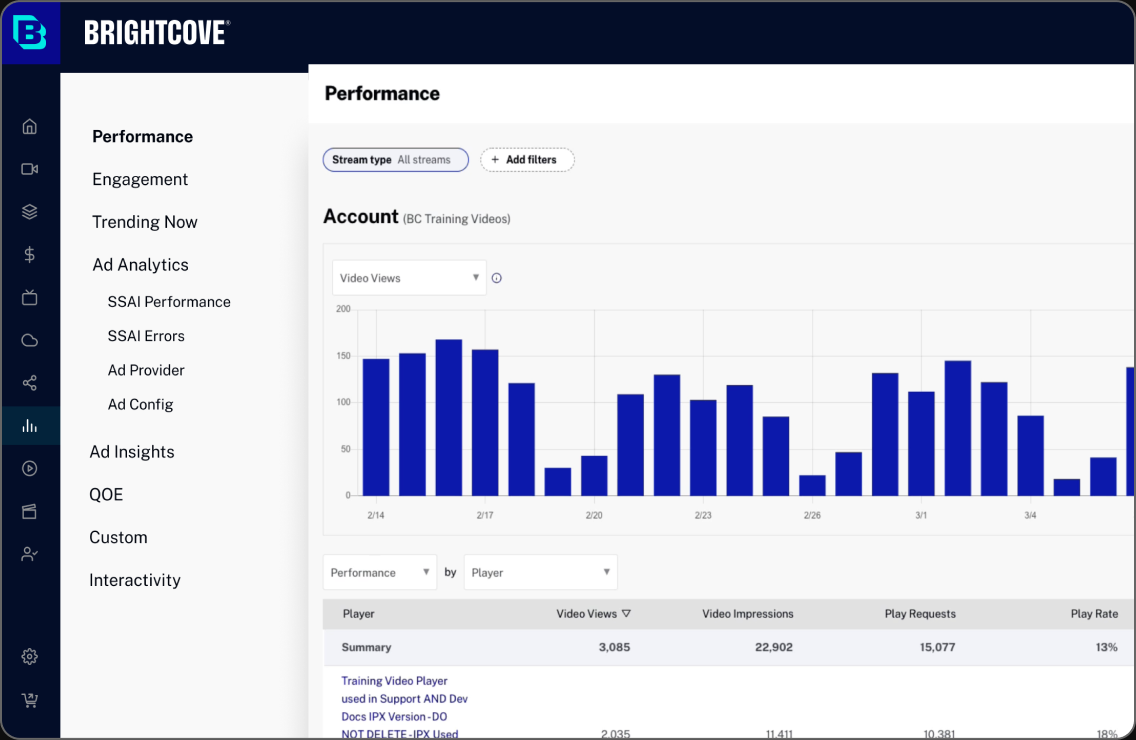
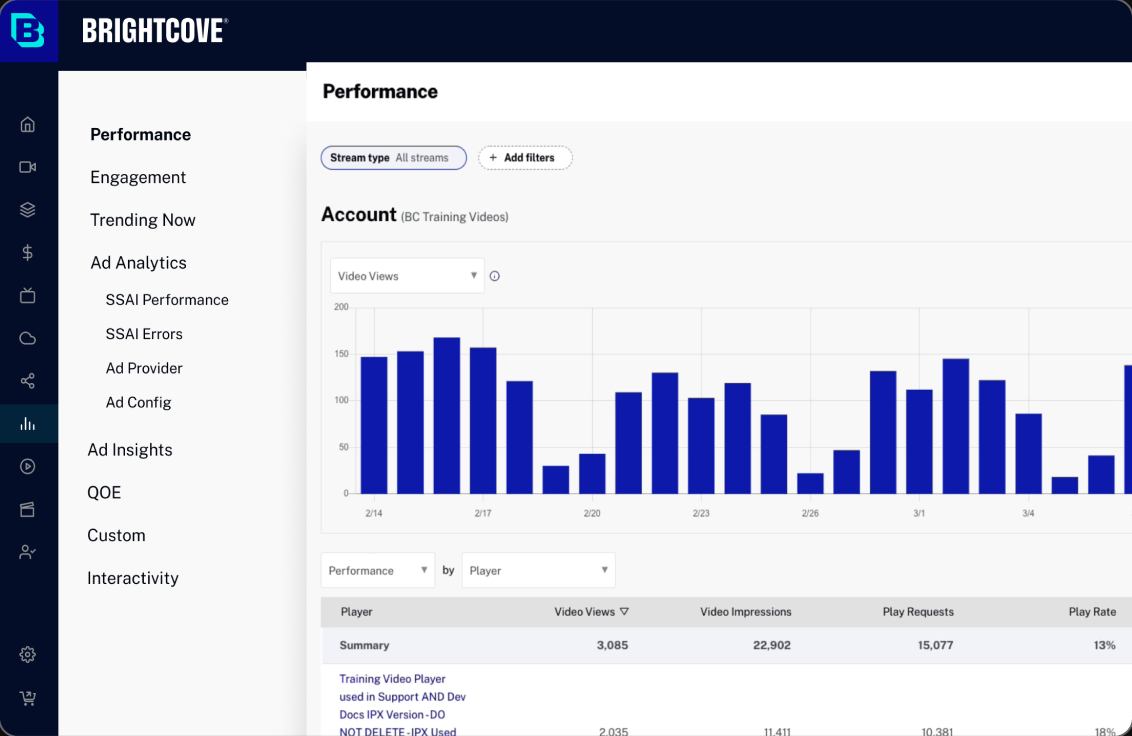
Add Analytics role-based chapter, border-default token and wide Before/After
- New border-default color token (#303030) on desktop screenshots and
  Narrative separate cards; Reframing images cropped of baked borders.
- BeforeAfterTemplate: size "wide", extra comparison rows, and no tab
  spacing or min height when there are no tabs.
- Reimagining Analytics: "03 _ DESIGN SYSTEM" copy, new
  "04 _ ROLE-BASED EXPERIENCE" chapter.

Claude-Session: https://claude.ai/code/session_01FTox3LsHN9kcrSKJB6AZvH

diff --git a/src/content/case-study/reimaginingAnalytics.ts b/src/content/case-study/reimaginingAnalytics.ts
@@ -2,6 +2,7 @@ import type { IntroData } from "@/components/case-study/templates/IntroTemplate"
 import type { SimpleSectionData } from "@/components/case-study/templates/SimpleSectionTemplate";
 import type { ImpactData } from "@/components/case-study/templates/ImpactTemplate";
 import type { NarrativeData } from "@/components/case-study/templates/NarrativeTemplate";
+import type { BeforeAfterData } from "@/components/case-study/templates/BeforeAfterTemplate";
 
 /** Reimagining Analytics intro (Figma 110:18593): title, copy and facts. The hero is AnalyticsHero. */
 export const reimaginingAnalyticsIntro = {
@@ -87,16 +88,15 @@ export const reimaginingAnalyticsStrategy = {
   ],
 } satisfies NarrativeData;
 
-/** "UX goal 2" (Figma 5NB8dL3E3HQQtXFRcjaKVd 101:274): centred story text, then the three patterns as rolling narrative steps (Figma 135:1472), before over after (2x exports). */
+/** "03 _ DESIGN SYSTEM" (Figma 5NB8dL3E3HQQtXFRcjaKVd 101:274): centred story text, then the three patterns as rolling narrative steps (Figma 135:1472), before over after (2x exports). */
 const pattern = (name: string, alt: string, width: number, height: number) => ({
   src: `/case-studies/reimagining-analytics/pattern-${name}.png`, alt, width, height,
   pill: name.endsWith("after") ? { label: "After", emphasis: "primary" as const } : { label: "Before" },
 });
 export const reimaginingAnalyticsPatternsIntro = {
-  label: "UX GOAL 2",
-  title: "Consolidating Design Patterns",
+  title: "From 17 Patterns to 3 Reusable Building Blocks",
   body:
-    "I audited existing components, identifying 17 design patterns in the Analytics module. I simplified them into three categories, reducing both visual complexity for users and maintenance effort for developers.",
+    "I audited the existing Analytics UI and found 17 different design patterns solving overlapping problems. I consolidated them into three reusable patterns—Hero Graphs, Highlight Cards, and Data Tables—reducing cognitive load for users and maintenance cost for engineering.",
 } satisfies SimpleSectionData;
 
 export const reimaginingAnalyticsPatterns = {
@@ -132,3 +132,41 @@ export const reimaginingAnalyticsPatterns = {
     },
   ],
 } satisfies NarrativeData;
+
+/** "04 _ ROLE-BASED EXPERIENCE" (Figma 116:891): simple-section story text. */
+export const reimaginingAnalyticsRolesIntro = {
+  title: "Designing for Roles, Not Averages",
+  body:
+    "I partnered with a junior designer and ran three rounds of usability testing to combine the new IA and component system into role-based experiences. Testing showed that even people in the same vertical prioritize different metrics, so the system needed a shared structure with tailored starting points.",
+} satisfies SimpleSectionData;
+
+const roles = (name: string, alt: string) => ({ src: `/case-studies/reimagining-analytics/roles-${name}.png`, alt });
+
+/** Example task (Figma 116:891 layout, content and 2x images from 25:1364): wide Before / After, no tabs, with the final design as a second row. */
+export const reimaginingAnalyticsRoles = {
+  size: "wide",
+  title: "Example Task: Finding Videos That Generate Leads",
+  description: "Role: Campaign Manager",
+  before: {
+    images: [roles("before", "Before: Analytics opens on generic trend charts and a video table, with lead metrics buried in separate tabs")],
+    bullets: [{ tone: "negative", text: "Users can’t find the target metrics after looking through each tab" }],
+  },
+  after: {
+    images: [roles("after", "After: Analytics Overview with headline metrics, a trend chart and best performing videos and pages")],
+    bullets: [
+      { tone: "positive", text: "Increased task success" },
+      { tone: "negative", text: "Avg. 32s task time" },
+    ],
+  },
+  rows: [{
+    before: {
+      label: "Final design",
+      images: [roles("final-overview", "Final design: a marketer’s Analytics Overview leading with lead generation and video likes")],
+    },
+    after: {
+      label: "Final design",
+      images: [roles("final-funnel", "Final design: a Funnel view tracing video views to leads and identified viewers")],
+      bullets: [{ tone: "positive", text: "Avg. task time decrease to 11s" }],
+    },
+  }],
+} satisfies BeforeAfterData;

diff --git a/src/components/case-study/templates/BeforeAfterTemplate.tsx b/src/components/case-study/templates/BeforeAfterTemplate.tsx
@@ -6,15 +6,18 @@ import { EvidencePanelHeader } from "../shared/EvidencePanelHeader";
 import { EvidenceColumn, type EvidenceColumnData, type EvidenceImage } from "../shared/EvidenceColumn";
 import { CaseStudyContentSwap, CaseStudyPanelReveal, EvidenceStagger } from "../shared/CaseStudyMotion";
 
-type ComparisonContent = {
+type ComparisonRow = { before: EvidenceColumnData; after: EvidenceColumnData };
+
+type ComparisonContent = ComparisonRow & {
   title: string;
   description: string;
-  before: EvidenceColumnData;
-  after: EvidenceColumnData;
+  /** `wide`: desktop screenshots at the simple-section width (568px, 16px gaps). */
+  size?: "wide";
 };
 
 export type BeforeAfterData = ComparisonContent & (
-  | { variant?: "before-after" }
+  /** `rows`: further Before / After pairs under the same header, 48px apart. */
+  | { variant?: "before-after"; rows?: readonly ComparisonRow[] }
   | { variant: "before-iterated-after"; iterated: EvidenceColumnData }
   | { variant: "grouped-before-after"; groupedSide?: "before"; before: Omit<EvidenceColumnData, "images"> & { images: readonly [EvidenceImage, EvidenceImage] } }
   | { variant: "grouped-before-after"; groupedSide: "after"; after: Omit<EvidenceColumnData, "images"> & { images: readonly [EvidenceImage, EvidenceImage] } }
@@ -25,11 +28,11 @@ type TemplateNavigation = { navigation?: ReactNode; contentId?: string; activeTa
 /** Structure only. Shared primitives own every visual and motion rule. */
 export function BeforeAfterTemplate(props: BeforeAfterData & TemplateNavigation) {
   const titleId = useId();
-  const { title, description, before, after, navigation, contentId, activeTabId } = props;
+  const { title, description, before, after, size, navigation, contentId, activeTabId } = props;
   const variant = props.variant ?? "before-after";
   const groupedSide = props.variant === "grouped-before-after" ? props.groupedSide ?? "before" : undefined;
   const pairWidth = (groupedSide === "after" ? after : before).images[0]?.width;
-  return <EvidencePanelShell labelledBy={titleId} navigation={navigation} contentId={contentId} activeTabId={activeTabId} layout={variant} groupedSide={groupedSide} pairWidth={pairWidth}>
+  return <EvidencePanelShell labelledBy={titleId} navigation={navigation} contentId={contentId} activeTabId={activeTabId} layout={variant} groupedSide={groupedSide} pairWidth={pairWidth} size={size}>
     <CaseStudyPanelReveal>
       <CaseStudyContentSwap contentKey={props.contentKey ?? variant}>
         <EvidencePanelHeader id={titleId} title={title} description={description} />
@@ -38,6 +41,12 @@ export function BeforeAfterTemplate(props: BeforeAfterData & TemplateNavigation)
           {props.variant === "before-iterated-after" && <EvidenceColumn data={props.iterated} label="Iterated" />}
           <EvidenceColumn data={after} label="After" emphasis="primary" imageLayout={groupedSide === "after" ? "pair" : "stack"} />
         </EvidenceStagger>
+        {props.variant !== "before-iterated-after" && props.variant !== "grouped-before-after" && props.rows?.map((row, index) => <div key={index} className="cs-evidence-row">
+          <EvidenceStagger>
+            <EvidenceColumn data={row.before} label="Before" />
+            <EvidenceColumn data={row.after} label="After" emphasis="primary" />
+          </EvidenceStagger>
+        </div>)}
       </CaseStudyContentSwap>
     </CaseStudyPanelReveal>
   </EvidencePanelShell>;

diff --git a/src/app/work/[slug]/page.tsx b/src/app/work/[slug]/page.tsx
@@ -16,11 +16,15 @@ import { AnalyticsCaseIntro } from "@/components/case-study/reimagining-analytic
 import { SimpleSectionTemplate } from "@/components/case-study/templates/SimpleSectionTemplate";
 import { ImpactTemplate } from "@/components/case-study/templates/ImpactTemplate";
 import { NarrativeTemplate } from "@/components/case-study/templates/NarrativeTemplate";
+import { BeforeAfterTemplate } from "@/components/case-study/templates/BeforeAfterTemplate";
+import { caseStudyTokens } from "@/components/case-study/shared/caseStudyTokens";
 import { CaseStudyChapterHeader } from "@/components/case-study/shared/CaseStudyChapterHeader";
 import { neoAdvanceImpact } from "@/content/neoAdvance";
 import {
   reimaginingAnalyticsImpact,
   reimaginingAnalyticsPatterns,
+  reimaginingAnalyticsRolesIntro,
+  reimaginingAnalyticsRoles,
   reimaginingAnalyticsPatternsIntro,
   reimaginingAnalyticsProblem,
   reimaginingAnalyticsReframing,
@@ -134,10 +138,18 @@ async function CaseStudyContent({ params }: PageProps<"/work/[slug]">) {
             <NarrativeTemplate {...reimaginingAnalyticsStrategy} />
           </section>
           <section aria-labelledby="analytics-patterns">
-            <CaseStudyChapterHeader id="analytics-patterns">03 _ UX GOAL 2</CaseStudyChapterHeader>
+            <CaseStudyChapterHeader id="analytics-patterns">03 _ DESIGN SYSTEM</CaseStudyChapterHeader>
             <SimpleSectionTemplate {...reimaginingAnalyticsPatternsIntro} />
             <ScrollReveal as="hr" className="border-line" />
             <NarrativeTemplate {...reimaginingAnalyticsPatterns} />
+          </section>
+          <section aria-labelledby="analytics-roles">
+            <CaseStudyChapterHeader id="analytics-roles">04 _ ROLE-BASED EXPERIENCE</CaseStudyChapterHeader>
+            <SimpleSectionTemplate {...reimaginingAnalyticsRolesIntro} />
+            <ScrollReveal as="hr" className="border-line" />
+            <div style={caseStudyTokens} className="cs-section">
+              <BeforeAfterTemplate {...reimaginingAnalyticsRoles} />
+            </div>
           </section>
         </AnalyticsCaseIntro>
       </main>

diff --git a/src/components/case-study/shared/EvidencePanelShell.tsx b/src/components/case-study/shared/EvidencePanelShell.tsx
@@ -1,11 +1,14 @@
 import type { ReactNode } from "react";
-import { caseStudyTokens } from "./caseStudyTokens";
+import { caseStudyTokens, caseStudyWideEvidenceTokens } from "./caseStudyTokens";
 
 export type EvidenceLayout = "before-after" | "before-iterated-after" | "grouped-before-after";
 
-/** No surface chrome: content sits on the page background; only the tab bar draws dividers. */
-export function EvidencePanelShell({ children, navigation, labelledBy, contentId, activeTabId, layout = "before-after", groupedSide, pairWidth }: { children: ReactNode; navigation?: ReactNode; labelledBy: string; contentId?: string; activeTabId?: string; layout?: EvidenceLayout; groupedSide?: "before" | "after"; pairWidth?: number }) {
-  return <section aria-labelledby={labelledBy} className="cs-rules cs-panel" data-layout={layout} data-grouped-side={groupedSide} style={{ ...caseStudyTokens, ...(pairWidth ? { "--cs-pair-image-width": `${pairWidth}px` } : {}) }}>
+/**
+ * No surface chrome: content sits on the page background; only the tab bar draws dividers.
+ * Without tabs there is nothing to swap, so the tab-bar spacing and fixed min height drop out.
+ */
+export function EvidencePanelShell({ children, navigation, labelledBy, contentId, activeTabId, layout = "before-after", groupedSide, pairWidth, size }: { children: ReactNode; navigation?: ReactNode; labelledBy: string; contentId?: string; activeTabId?: string; layout?: EvidenceLayout; groupedSide?: "before" | "after"; pairWidth?: number; size?: "wide" }) {
+  return <section aria-labelledby={labelledBy} className="cs-rules cs-panel" data-layout={layout} data-grouped-side={groupedSide} data-size={size} style={{ ...caseStudyTokens, ...(size === "wide" ? caseStudyWideEvidenceTokens : {}), ...(navigation ? {} : { "--cs-panel-min-height": "auto", "--cs-content-top": "0px" }), ...(pairWidth ? { "--cs-pair-image-width": `${pairWidth}px` } : {}) }}>
     {navigation}
     <div className="cs-panel-content" id={contentId} role={activeTabId ? "tabpanel" : undefined} aria-labelledby={activeTabId} tabIndex={activeTabId ? 0 : undefined}>{children}</div>
   </section>;

diff --git a/src/components/case-study/shared/caseStudyTokens.ts b/src/components/case-study/shared/caseStudyTokens.ts
@@ -31,6 +31,8 @@ export const caseStudyTokens: CSSProperties & Record<`--cs-${string}`, string> =
   "--cs-title-description-gap": "calc(var(--spacing) * 3)",
   "--cs-header-evidence-gap": "calc(var(--spacing) * 16)",
   "--cs-column-gap": "calc(var(--spacing) * 12)",
+  // Between stacked Before / After rows in one panel (Figma 116:891).
+  "--cs-row-gap": "calc(var(--spacing) * 12)",
   "--cs-evidence-gap": "calc(var(--spacing) * 6)",
   "--cs-final-evidence-gap": "calc(var(--spacing) * 6 - 1px)",
   "--cs-bullet-gap": "calc(var(--spacing) * 3)",
@@ -74,12 +76,14 @@ export const caseStudyTokens: CSSProperties & Record<`--cs-${string}`, string> =
   "--cs-tma-success": "#42be65",
 };
 
-/** Simple section, before/after variant (Figma 110:18926): 568 px desktop screenshots, 16 px apart and 16 px below their pills. */
+/** Simple section before/after and wide Before / After panels (Figma 110:18926, 116:891): 568 px desktop screenshots, 16 px apart and 16 px below their pills. */
 export const caseStudyWideEvidenceTokens: Record<`--cs-${string}`, string> = {
   "--cs-image-width": "568px",
   "--cs-column-gap": "calc(var(--spacing) * 4)",
   "--cs-evidence-gap": "calc(var(--spacing) * 4)",
   "--cs-final-evidence-gap": "calc(var(--spacing) * 4)",
+  // Two 568px columns fill the 1174px panel; the page already provides the side margin.
+  "--cs-content-gutter": "0px",
 };
 
 /** Semantic roles compose existing site utilities. No template owns typography. */

diff --git a/src/components/case-study/shared/caseStudy.css b/src/components/case-study/shared/caseStudy.css
@@ -40,10 +40,13 @@
 .cs-chapter + .cs-simple-section { padding-top: 0; }
 .cs-simple-section-text { width: min(100%, var(--cs-text-column-width)); margin-inline: auto; }
 .cs-simple-section-content { margin-top: var(--cs-content-top); }
-.cs-simple-section .cs-evidence-columns { grid-template-columns: repeat(2, minmax(0, var(--cs-image-width))); justify-content: center; }
+/* Wide desktop screenshots, in a simple section or a wide Before / After panel. */
+.cs-simple-section .cs-evidence-columns, .cs-panel[data-size="wide"] .cs-evidence-columns { grid-template-columns: repeat(2, minmax(0, var(--cs-image-width))); justify-content: center; }
+.cs-simple-section .cs-evidence-frame, .cs-panel[data-size="wide"] .cs-evidence-frame { border: 1px solid var(--color-border-default); }
 @media (max-width: 767px) {
-  .cs-simple-section .cs-evidence-columns { grid-template-columns: minmax(0, var(--cs-image-width)); }
+  .cs-simple-section .cs-evidence-columns, .cs-panel[data-size="wide"] .cs-evidence-columns { grid-template-columns: minmax(0, var(--cs-image-width)); }
 }
+.cs-evidence-row { margin-top: var(--cs-row-gap); }
 
 /* Structural variants share all evidence styling and motion. */
 .cs-panel[data-layout="before-iterated-after"] .cs-panel-content { width: calc(var(--cs-image-width) * 3 + var(--cs-column-gap) * 2); }

diff --git a/src/components/case-study/templates/NarrativeTemplate.tsx b/src/components/case-study/templates/NarrativeTemplate.tsx
@@ -149,7 +149,7 @@ function NarrativeFrame({ image, title, layout, first, last, scaleEnabled, onOpe
   const scale = useTransform(scrollYProgress, [0, 0.5, 1], [0.98, 1, 0.98]);
   const joined = layout === "joined";
   const frame = layout === "separate"
-    ? "rounded-surface border border-ink/10"
+    ? "rounded-surface border border-border-default"
     : joined ? `${first ? "rounded-t-[20px]" : ""} ${last ? "rounded-b-[20px]" : ""}` : "";
   const picture = <>
     {joined && !first && <span aria-hidden="true" className="pointer-events-none absolute inset-x-0 top-0 z-10 hidden h-px bg-ink/10 lg:block" />}

diff --git a/src/app/globals.css b/src/app/globals.css
@@ -28,6 +28,7 @@
   --color-ink-muted: #898989;       /* arrow icons */
   --color-line: #262626;            /* hairlines */
   --color-line-strong: #3a3a3a;
+  --color-border-default: #303030;  /* default border around images and cards */
   --color-tile: #171717;            /* empty project tile */
   --color-tag: #2c2c2c;             /* tag pill fill */
   --color-card: #151515;            /* super power fragment card */

diff --git a/src/design-system/tokens/colors.ts b/src/design-system/tokens/colors.ts
@@ -11,6 +11,7 @@ export const colors = {
   "ink-muted": "var(--color-ink-muted)",
   "line": "var(--color-line)",
   "line-strong": "var(--color-line-strong)",
+  "border-default": "var(--color-border-default)",
   "tile": "var(--color-tile)",
   "tag": "var(--color-tag)",
   "card": "var(--color-card)",

diff --git a/docs/case-study-templates.md b/docs/case-study-templates.md
@@ -89,7 +89,7 @@ Text pinned on the left (320) beside images on the right (704), 128px apart. Con
 | `imageLayout` | Images |
 | --- | --- |
 | `joined` (default) | One 20px-radius surface, dividers between images, scroll scale 0.98 → 1 |
-| `separate` | Each image its own 10px-radius card with a 10% ink border, 16px apart |
+| `separate` | Each image its own 10px `radius-surface` card with a `border-default` border, 16px apart |
 | `plain` | Images only: no surface, rounding, divider or scaling |
 
 An image with `full` opens the zoom viewer; `pill` puts a shared `EvidencePill` (e.g. Before / After) 16px above it, and labelled blocks sit 32px apart within a step and 64px between steps; `details` adds a text button for the step's first zoomable image. On mobile each step's text sits above its images. `StickyNarrativeText` and `shared/useStickyNarrative` are exported for layouts with other visuals (Neo `NeoCoreFlows`).
@@ -109,6 +109,8 @@ Structure only, built from the evidence primitives in `shared/`. Contract: `titl
 | `grouped-before-after` | Two images share one pill and bullet list | `groupedSide`: `before` (default) or `after` |
 
 Bullets are optional; a column with none renders only its pill and images.
+
+`size: "wide"` uses the simple-section screenshot width (568px columns, 16px gaps, `border-default` frames). `rows` (`before-after` only) stacks more Before / After pairs under the same header, 48px apart (`--cs-row-gap`); a column's `label` renames its pill. Without `navigation` the panel drops the tab-bar spacing and fixed min height. Used by Reimagining Analytics role-based experience (`reimaginingAnalyticsRoles`, Figma `116:891`).
 
 Optional tabs: pass `navigation` (`CaseStudyTabs`), `contentId`, `activeTabId` and `contentKey`; only the inner content swaps. Used by Neo Advance hi-fi exploration (`neo-advance/NeoThemePanel.tsx`, content `neoAdvanceValidationThemes`).
 

diff --git a/docs/design-system.md b/docs/design-system.md
@@ -6,7 +6,7 @@ Codex, Claude Code, and future coding agents must read this file before implemen
 
 ## Tokens
 
-- **colors** — CSS-variable references in `tokens/colors.ts`. `surface-3` (#1D1D1D) is the case-study tab group fill.
+- **colors** — CSS-variable references in `tokens/colors.ts`. `surface-3` (#1D1D1D) is the case-study tab group fill. `border-default` (#303030) is the default 1px border around images and cards.
 - **typography** — existing `typeStyles` catalog; use the existing `type-*` CSS utilities. Fonts remain in `src/design/fonts.ts`.
 - **spacing** — references to the existing base unit and layout tokens.
 - **radius** — existing surface (10px) and control (8px) values.
